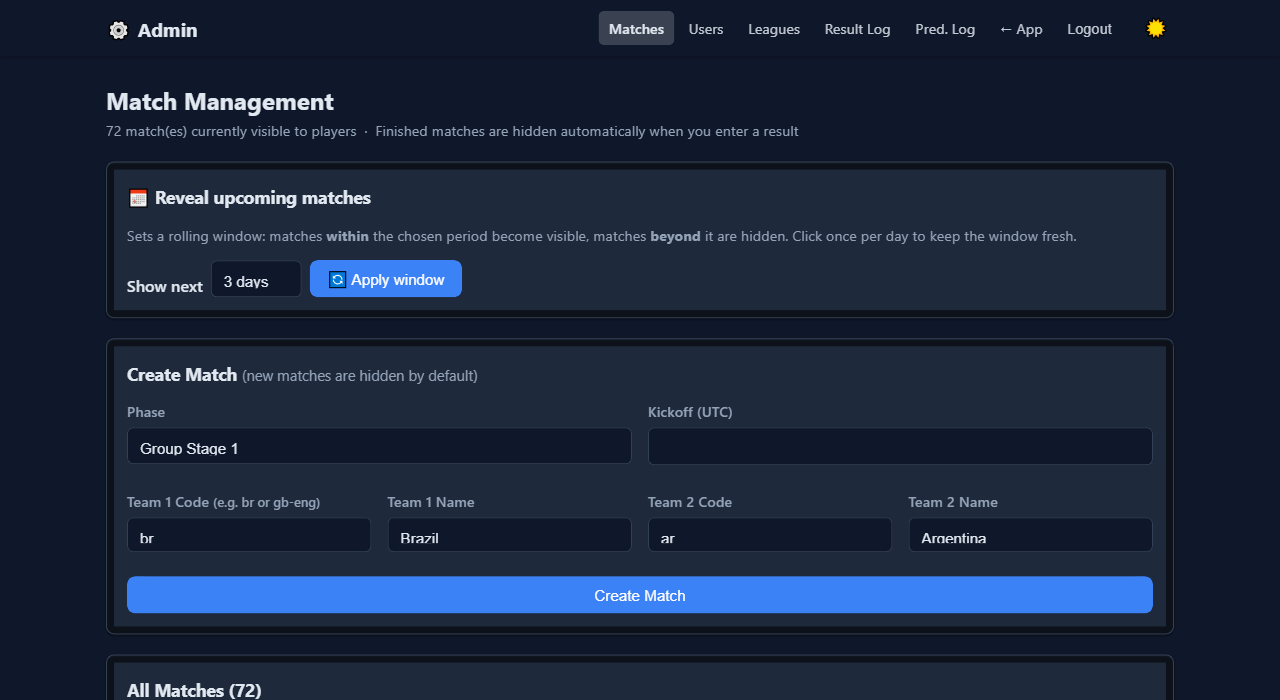
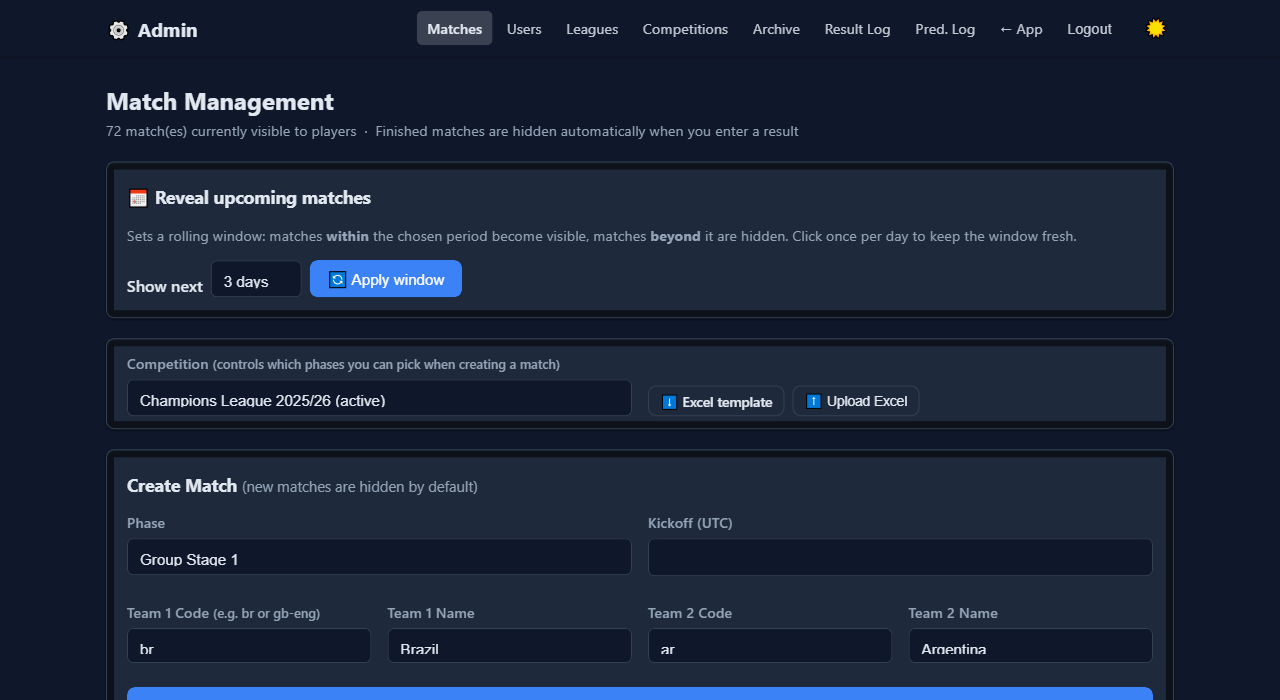
Generalize branding: remove WC 2026 lock-in from UI, README, migration
- Drop hardcoded "2026"/"WC 2026" from page titles, headers, and footer
  across templates (base, login, join, admin) — app already supports
  any number of competitions with per-competition scoring/phases, the
  branding just hadn't caught up
- Fix migration 0008 to only backfill the historical "World Cup 2026"
  competition when pre-existing phase data is found; a fresh install
  now starts with zero competitions instead of a phantom finished one
- Rewrite README to describe the app as generic (any football
  competition), document that competitions/phases are created from the
  admin panel, and mark seed_phases/import_group_stage as optional
  sample-data scripts rather than required setup
- Regenerate screenshots to match the updated branding
- Update GitHub description/topics to drop the World Cup framing

diff --git a/app/templates/base.html b/app/templates/base.html
@@ -4,7 +4,7 @@
   <meta charset="UTF-8">
   <meta name="viewport" content="width=device-width, initial-scale=1.0">
   <meta name="csrf-token" content="{{ csrf_token(request) }}">
-  <title>{% block title %}Predicto{% endblock %} — 2026</title>
+  <title>{% block title %}Predicto{% endblock %}</title>
   <link rel="stylesheet" href="/static/css/style.css">
 </head>
 <body>
@@ -56,7 +56,7 @@
 </main>
 
 <footer class="footer">
-  <div class="container">Predicto 2026 &nbsp;·&nbsp; Developed by Miloš &nbsp;·&nbsp; All times in Europe/Ljubljana</div>
+  <div class="container">Predicto &nbsp;·&nbsp; Developed by Miloš &nbsp;·&nbsp; All times in Europe/Ljubljana</div>
 </footer>
 
 <script src="/static/js/main.js"></script>

diff --git a/app/templates/join.html b/app/templates/join.html
@@ -4,7 +4,7 @@
   <meta charset="UTF-8">
   <meta name="viewport" content="width=device-width, initial-scale=1.0">
   <meta name="csrf-token" content="{{ csrf_token(request) }}">
-  <title>Join {{ league.name }} — Predicto 2026</title>
+  <title>Join {{ league.name }} — Predicto</title>
   <link rel="stylesheet" href="/static/css/style.css">
 </head>
 <body class="login-page">
@@ -12,7 +12,7 @@
   <div class="login-card">
     <div class="login-header">
       <span class="login-logo">⚽</span>
-      <h1>Predicto 2026</h1>
+      <h1>Predicto</h1>
       <p>You're joining: <strong>{{ league.name }}</strong></p>
     </div>
 

diff --git a/app/templates/login.html b/app/templates/login.html
@@ -4,7 +4,7 @@
   <meta charset="UTF-8">
   <meta name="viewport" content="width=device-width, initial-scale=1.0">
   <meta name="csrf-token" content="{{ csrf_token(request) }}">
-  <title>Login — Predicto 2026</title>
+  <title>Login — Predicto</title>
   <link rel="stylesheet" href="/static/css/style.css">
 </head>
 <body class="login-page">
@@ -12,7 +12,7 @@
   <div class="login-card">
     <div class="login-header">
       <span class="login-logo">⚽</span>
-      <h1>Predicto 2026</h1>
+      <h1>Predicto</h1>
       <p>Developed by Miloš</p>
     </div>
 

diff --git a/app/templates/admin/competition_edit.html b/app/templates/admin/competition_edit.html
@@ -21,7 +21,7 @@
     <div class="form-group">
       <label>Competition Name</label>
       <input type="text" name="name" required maxlength="100"
-             value="{{ competition.name if competition else '' }}" placeholder="World Cup 2030">
+             value="{{ competition.name if competition else '' }}" placeholder="e.g. Champions League 2025/26">
     </div>
     <div class="form-row">
       <div class="form-group">

diff --git a/app/templates/admin/base.html b/app/templates/admin/base.html
@@ -4,7 +4,7 @@
   <meta charset="UTF-8">
   <meta name="viewport" content="width=device-width, initial-scale=1.0">
   <meta name="csrf-token" content="{{ csrf_token(request) }}">
-  <title>{% block title %}Admin{% endblock %} — Predicto 2026</title>
+  <title>{% block title %}Admin{% endblock %} — Predicto</title>
   <link rel="stylesheet" href="/static/css/style.css">
 </head>
 <body>

diff --git a/alembic/versions/0008_multi_competition.py b/alembic/versions/0008_multi_competition.py
@@ -38,15 +38,17 @@ def upgrade() -> None:
         if_not_exists=True,
     )
 
-    # WC2026 is factually finished (season report already produced) — every
-    # existing row gets attributed to this single competition below.
+    # Pre-existing (single-competition) installs get their historical data
+    # attributed to a "World Cup 2026" competition below. A fresh install has
+    # no phases yet at this point in the migration chain, so it skips this
+    # and starts with zero competitions — nothing to backfill.
     op.execute("""
         INSERT INTO competitions (name, status, finished_at)
-        VALUES (
+        SELECT
             'World Cup 2026',
             'finished',
             (SELECT MAX(finished_at) FROM matches)
-        )
+        WHERE EXISTS (SELECT 1 FROM phases)
     """)
 
     # ── phases ───────────────────────────────────────────────────────────────

diff --git a/app/main.py b/app/main.py
@@ -15,7 +15,7 @@ from app.routes import settings as settings_routes
 from app.routes import admin as admin_routes
 
 app = FastAPI(
-    title="WC 2026 Predicto",
+    title="Predicto",
     # Hide API docs in production
     docs_url="/docs" if settings.DEBUG else None,
     redoc_url=None,

diff --git a/README.md b/README.md
@@ -1,6 +1,6 @@
-# ⚽ Predicto — WC 2026 Score Prediction Game
+# ⚽ Predicto — Score Prediction Game
 
-A self-hosted web app for an office World Cup 2026 score-prediction pool. Users predict exact match scores, points are awarded by a fixed scoring formula, and a leaderboard tracks the league. **No money involved — for fun only.**
+A self-hosted score-prediction pool for **any football competition** — a World Cup, a Champions League season, your office's Sunday league, whatever. Admins spin up a competition with its own scoring rules and phases, users predict exact match scores, and a leaderboard tracks the standings per league. **No money involved — for fun only.**
 
 Built with **FastAPI + SQLAlchemy + Jinja2** — server-rendered, no SPA framework, dark mode by default.
 
@@ -22,13 +22,16 @@ Built with **FastAPI + SQLAlchemy + Jinja2** — server-rendered, no SPA framewo
 
 ## Features
 
-- **Exact-score predictions** with a fixed scoring formula (correct tip, goal difference, exact goals)
+- **Multi-competition** — run any number of competitions (past, active, or archived), each with its own name, phases, and scoring configuration
+- **Configurable scoring per competition** — points for correct tip / goal difference / exact score, joker bonus/penalty, and a per-phase point multiplier are all admin-editable, not hardcoded
+- **Exact-score predictions** — points awarded for correct tip (1X2), correct goal difference, and exact goals per team
 - **Joker** — one per phase, doubles down on a prediction for bonus points or a penalty
-- **Leagues** — group players into separate leaderboards (e.g. per office/team)
-- **Prediction lock** — 15 minutes before kickoff, then predictions are frozen
+- **Leagues** — group players into separate leaderboards (e.g. per office/team/friend group), with invite links and archiving once a competition ends
+- **Prediction lock** — configurable minutes-before-kickoff cutoff, then predictions are frozen
 - **Post-lock stats** — see the outcome distribution and everyone's predictions once a match locks
 - **Achievement badges**, personal stats, and per-match prediction history
-- **Admin panel** — create/edit matches, enter results, manage users and leagues, audit logs
+- **Admin panel** — create/edit competitions, phases and matches, enter results, manage users and leagues, audit logs, soft-delete users while preserving history
+- **Excel import** for bulk-loading a competition's fixture list
 - **Dark mode** by default, mobile-friendly
 - **n8n-friendly reminder API** for nudging users who haven't predicted yet
 
@@ -39,7 +42,7 @@ Built with **FastAPI + SQLAlchemy + Jinja2** — server-rendered, no SPA framewo
 - **Backend:** Python 3.11+, FastAPI
 - **DB:** PostgreSQL in production (SQLite for local dev), SQLAlchemy 2.x ORM + Alembic migrations
 - **Templating:** Jinja2, server-rendered — vanilla JS + plain CSS on top
-- **Auth:** session cookies (HttpOnly, Secure, SameSite=Lax) + bcrypt password hashing
+- **Auth:** session cookies (HttpOnly, Secure, SameSite=Lax) + bcrypt password hashing, CSRF-protected forms
 - **Validation:** Pydantic v2
 
 ---
@@ -70,11 +73,10 @@ cp .env.example .env
 | `REMINDER_API_TOKEN` | Static token for the n8n reminder endpoint |
 | `DEBUG` | `true` for local dev (disables HTTPS-only cookies) |
 
-### 4. Run migrations, seed data, create an admin
+### 4. Run migrations and create an admin
 
 ```bash
 alembic upgrade head
-python scripts/seed_phases.py
 python scripts/create_admin.py
 ```
 
@@ -84,7 +86,9 @@ python scripts/create_admin.py
 uvicorn app.main:app --reload
 ```
 
-Open http://localhost:8000
+Open http://localhost:8000, log in as the admin, and create your first competition at `/admin/competitions` — add phases, then matches (one by one or via the Excel importer), and you're running.
+
+`scripts/seed_phases.py` and `scripts/import_group_stage.py` are optional convenience scripts that preload a sample World Cup 2026-style fixture list, useful for trying the app out — they're not required for a real competition, everything they do can also be done from the admin panel.
 
 ---
 
@@ -127,9 +131,9 @@ In the Vercel project settings → Environment Variables:
 ```bash
 export DATABASE_URL="postgresql://...your-neon-url..."
 alembic upgrade head
-python scripts/seed_phases.py
-python scripts/import_group_stage.py   # optional: preloads the real WC 2026 fixture list
 python scripts/create_admin.py
+python scripts/seed_phases.py         # optional: sample phases to try the app with
+python scripts/import_group_stage.py  # optional: preloads a sample fixture list
 ```
 
 ### 5. Deploy
@@ -138,7 +142,7 @@ python scripts/create_admin.py
 vercel --prod
 ```
 
-**Note:** Vercel's serverless functions are stateless and spin up cold per request, so the in-memory login rate limiter (`slowapi`) resets between invocations — fine for a demo, not a substitute for the VPS/Docker deployment below in a real, higher-traffic office pool.
+**Note:** Vercel's serverless functions are stateless and spin up cold per request, so the in-memory login rate limiter (`slowapi`) resets between invocations — fine for a demo, not a substitute for the VPS/Docker deployment below for a real, higher-traffic pool.
 
 ---
 
@@ -165,7 +169,6 @@ docker compose up -d --build
 
 ```bash
 docker compose exec app alembic upgrade head
-docker compose exec app python scripts/seed_phases.py
 docker compose exec app python scripts/create_admin.py
 ```
 
@@ -222,6 +225,8 @@ Wire this into an n8n workflow to send Slack/email/SMS reminders.
 
 ## Scoring Rules
 
+Every competition has its own scoring configuration (editable in the admin panel); the defaults are:
+
 For each match, points are summed (max 25 from base):
 
 ```
@@ -234,24 +239,26 @@ if pred1 == res1:                                 points += 4    # correct goals
 if pred2 == res2:                                 points += 4    # correct goals team 2
 ```
 
-**Joker** (applied on top of base points for that match, one per phase, 8 phases total):
+**Joker** (applied on top of base points for that match, one per phase by default):
 ```
 if prediction.is_joker:
     if outcome(pred) == outcome(res):  points += 8    # joker hit
     else:                              points -= 5    # joker miss
 ```
 
-Result used = score at end of extra time (penalties are not counted). A prediction can be created/edited only while `now_utc < match.kickoff_utc - 15 minutes`.
+Each phase can also carry a **point multiplier** (e.g. weight knockout rounds higher than the group stage). Result used = score at end of extra time (penalties are not counted). A prediction can be created/edited only until the configured lock cutoff before kickoff.
 
 ---
 
 ## Security Notes
 
 - Passwords hashed with bcrypt
+- CSRF tokens on all session-authenticated forms
 - Session cookies: HttpOnly + SameSite=Lax + Secure (in production)
 - IP rate limiting on login: 10 requests/minute per IP (slowapi)
 - Account lockout: 30 minutes after 10 failed login attempts
 - Admin can unlock accounts manually at `/admin/users`
+- Users are soft-deleted (history preserved), never hard-deleted
 - Prediction audit log at `/admin/prediction-log` — every prediction change is recorded
 - Result audit log at `/admin/log`
 - All DB queries via ORM (no string-built SQL)
@@ -264,20 +271,20 @@ Result used = score at end of extra time (penalties are not counted). A predicti
 app/
   main.py          FastAPI app + middleware
   db.py            SQLAlchemy engine + session
-  models/          SQLAlchemy models
+  models/          SQLAlchemy models (competitions, phases, matches, leagues, users, ...)
   schemas/         Pydantic v2 schemas
-  auth/            Password hashing, session helpers, deps
-  services/        Business logic (scoring, predictions, ranking, badges, stats, results)
+  auth/            Password hashing, session/CSRF helpers, deps
+  services/        Business logic (scoring, predictions, ranking, badges, stats, results, import)
   routes/          Route handlers
   templates/       Jinja2 templates
   static/          CSS + JS
 api/               Vercel serverless entry point
 alembic/           Migrations
 config/            Settings via pydantic-settings
-scripts/           seed_phases, create_admin, backup
-tests/unit/        Scoring, lock, ranking, badge unit tests
+scripts/           create_admin, backup, optional sample-data seeders
+tests/             Unit + integration tests
 ```
 
 ## License
 
-For personal / office use. No warranty — this is a for-fun project, not a commercial product.
+For personal / community use. No warranty — this is a for-fun project, not a commercial product.
